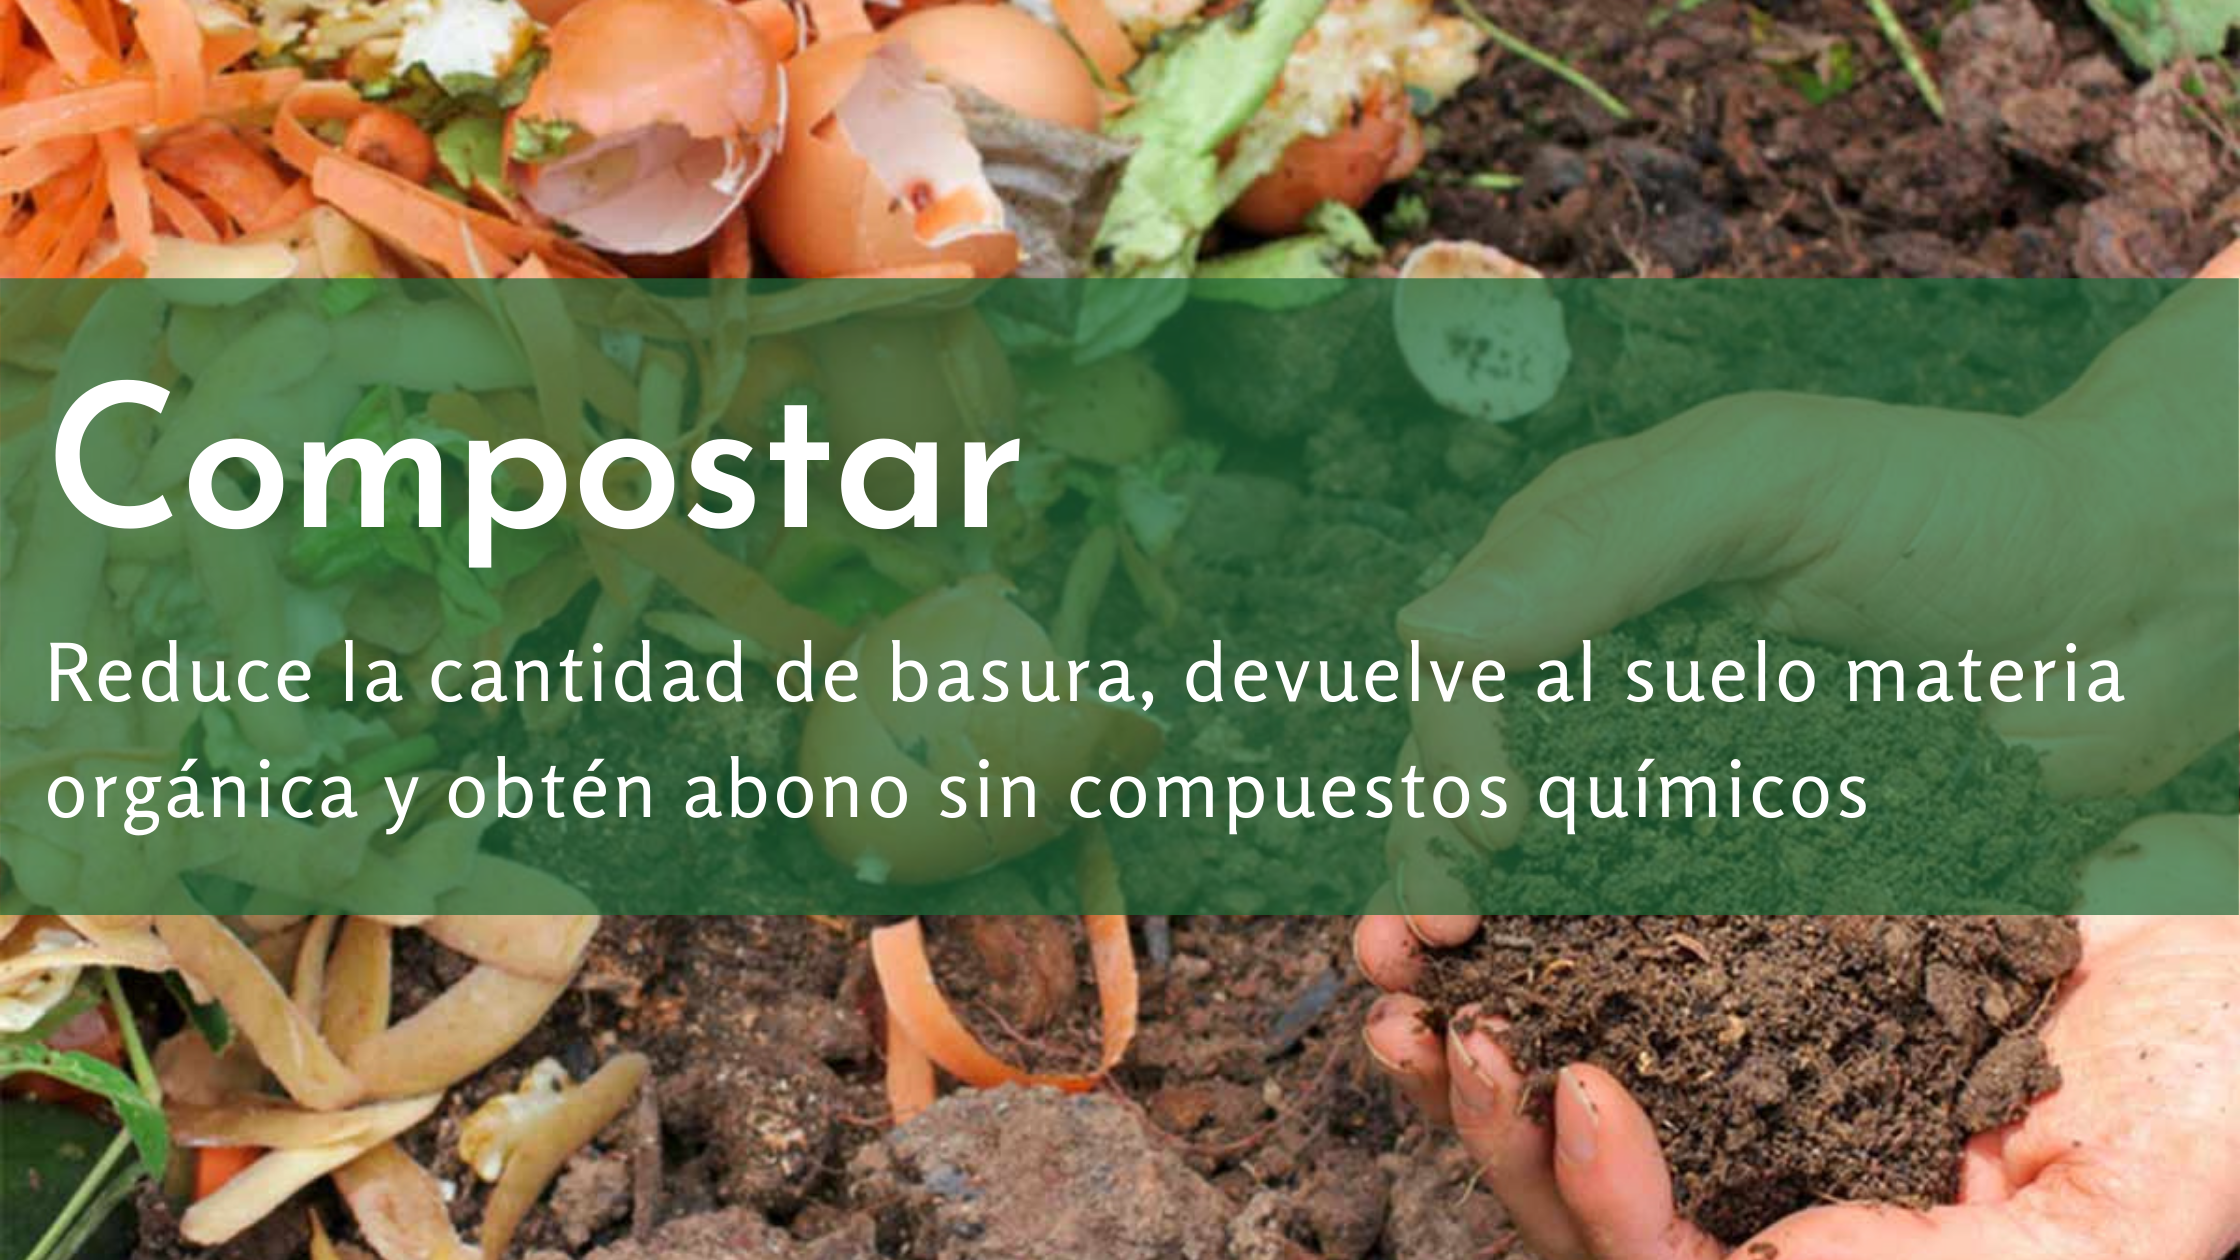
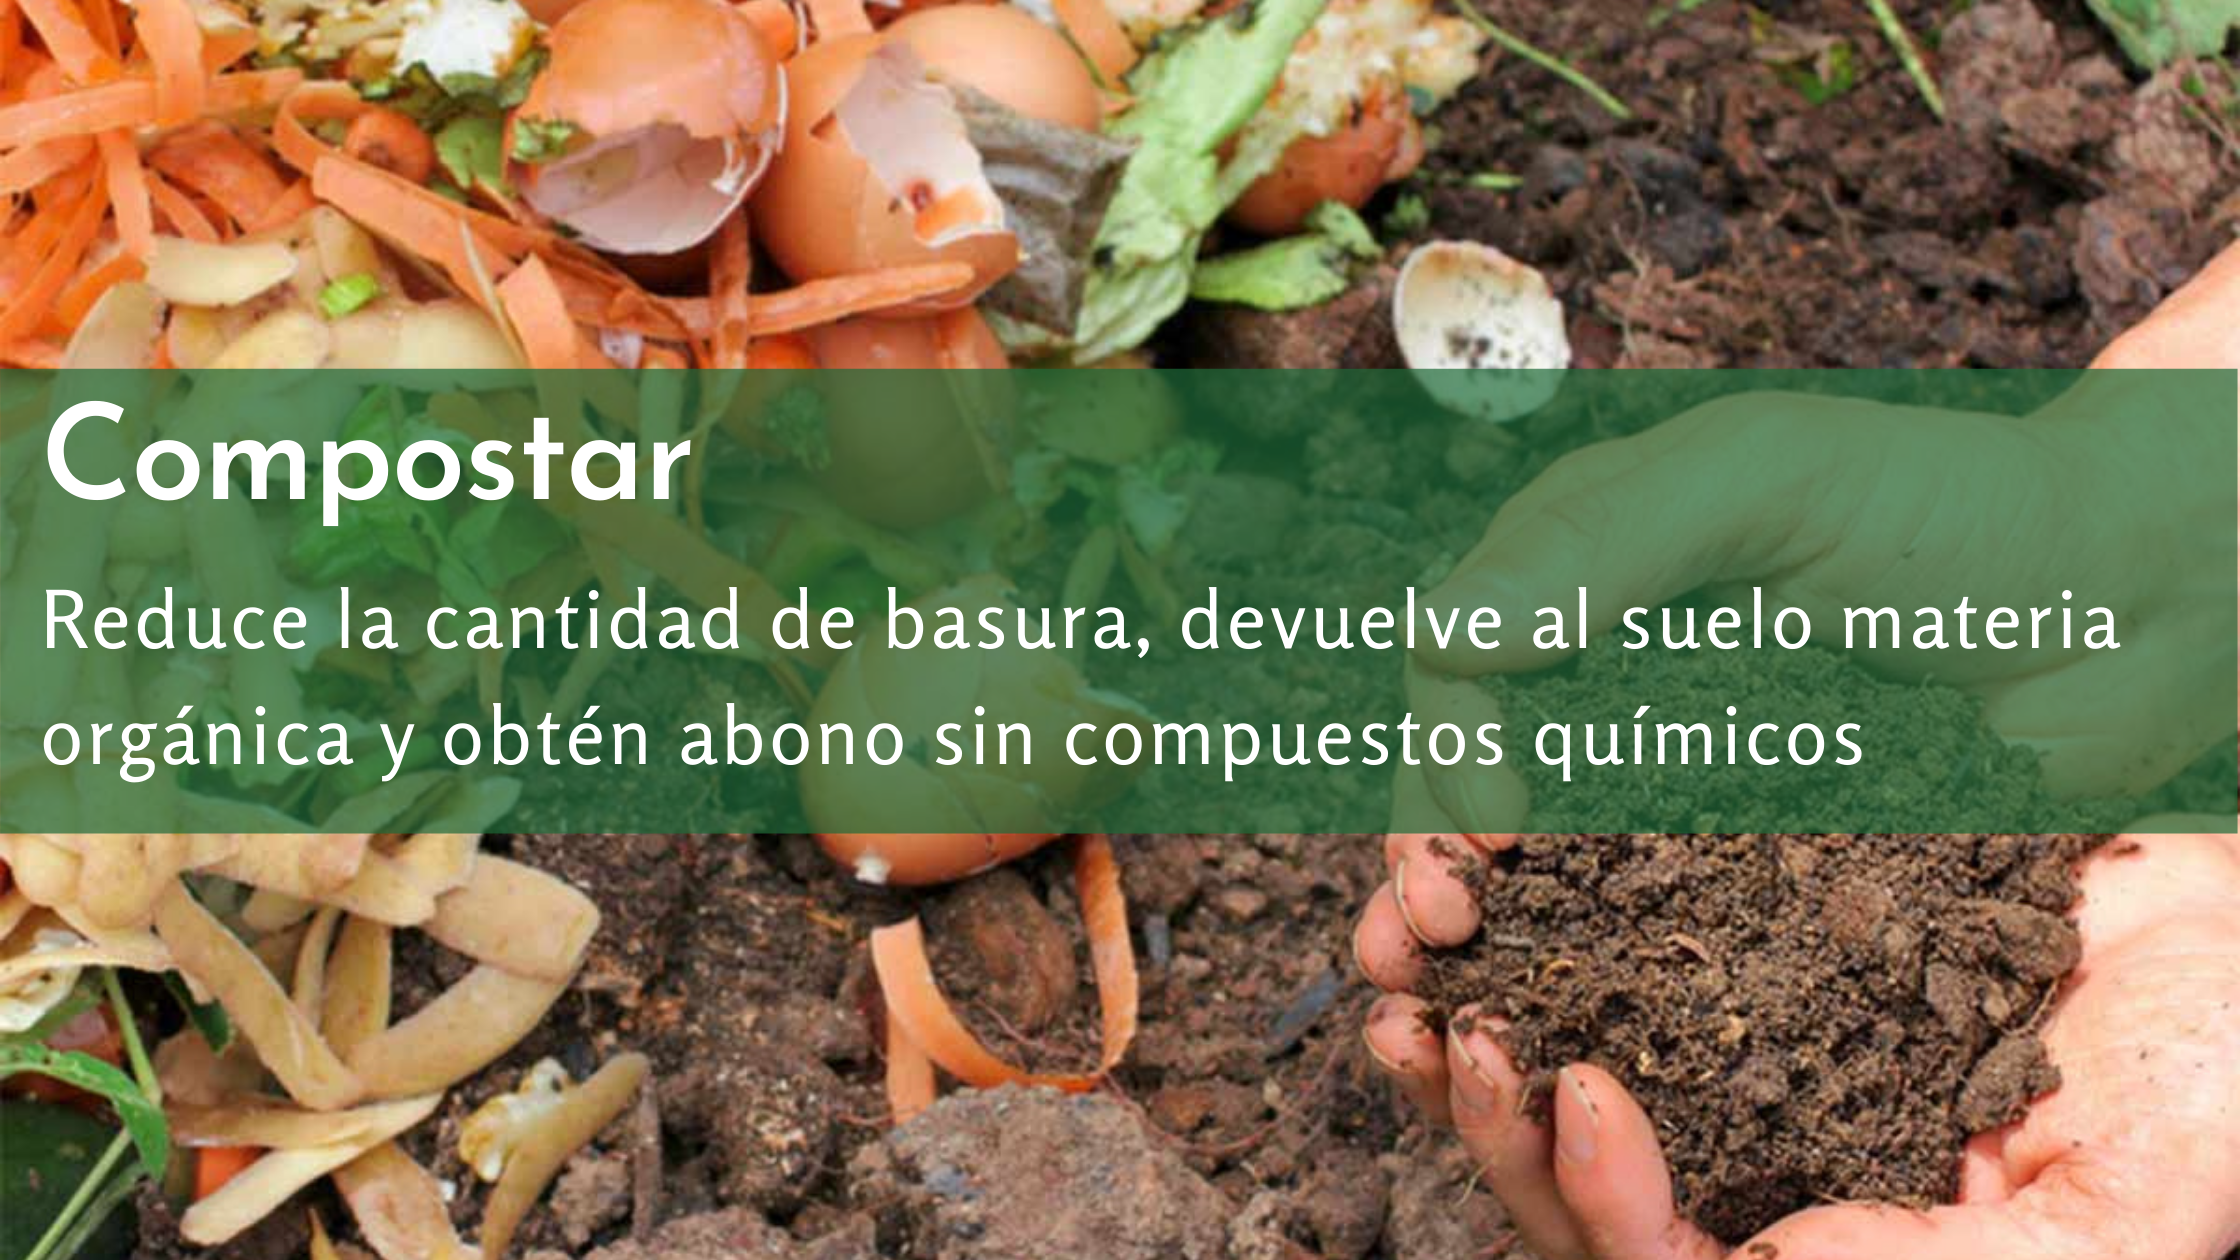
cambio de estilos y modificacion de imagenes del inicio

Changed region(s): [[0.0, 0.2167, 1.0, 0.7429]]

diff --git a/src/styles/main.js b/src/styles/main.js
@@ -11,19 +11,19 @@ export default StyleSheet.create({
   title: {
     fontSize: 20,
     fontWeight: 'bold',
-    marginTop: 30,
+    marginTop: 20,
     color: '#372A0B',
   },
   subtitle: {
     fontSize: 18,
-    marginTop: 30,
+    marginTop: 20,
     paddingBottom: 20,
     color: '#CE9F20',
   },
   button: {
     backgroundColor: '#372A0B',
     justifyContent: 'center',
-    width: 380,
+    width: width / 1.1,
     height: 60,
     borderColor: '#3E721E',
     borderRadius: 8,
@@ -53,9 +53,8 @@ export default StyleSheet.create({
     marginVertical: -28,
   },
   cardView: {
-    flex: 1,
-    width: height / 2.1,
-    height: height / 4,
+    width: width / 1.1,
+    height: height / 5.3,
     margin: 20,
     borderRadius: 8,
     elevation: 3,
@@ -63,8 +62,8 @@ export default StyleSheet.create({
     opacity: 0.9,
   },
   image: {
-    width: height / 2.1,
-    height: height / 4.7,
+    width: width / 1.1,
+    height: height / 5.3,
     borderRadius: 8,
     backgroundColor: '#1F6A39',
     opacity: 0.5,

diff --git a/src/components/CarouselMain.js b/src/components/CarouselMain.js
@@ -24,6 +24,9 @@ export default class CarouselMain extends Component {
           style={this.state.size}
           autoplay
           bullets
+          bulletsContainerStyle={{ marginVertical: -15}}     
+          bulletStyle={{ backgroundColor: '#949494', }}
+          chosenBulletStyle={{ backgroundColor: '#CE9F20',}}
           onAnimateNextPage={(p) => console.log(p)}
         >
           <View style={[this.state.size]}>
@@ -58,7 +61,8 @@ export default class CarouselMain extends Component {
 
 const styles = StyleSheet.create({
   image: {
-    width: width / 1,
-    height: height / 4.9,
+    width: width,
+    height: height / 4.3,
   },
+  
 });

diff --git a/src/styles/buttons.js b/src/styles/buttons.js
@@ -94,7 +94,7 @@ export default StyleSheet.create({
     marginTop: 75,
   },
   buttonText: {
-    color: '#fff',
+    color: '#372A0B',
     fontWeight: 'bold',
     marginHorizontal: 60,
     fontSize: 18,

diff --git a/src/screens/MapsScreen.js b/src/screens/MapsScreen.js
@@ -43,6 +43,7 @@ const DATA = [
     title: 'Contenedores',
   },
 ];
+console.log(DATA);
 
 export default function MapsScreen({ navigation }) {
   const [isConected, setIsConected] = useState();

diff --git a/src/screens/MainScreen.js b/src/screens/MainScreen.js
@@ -10,6 +10,9 @@ const Filter = [
     title: 'Tiendas',
   },
 ];
+
+console.log(Filter);
+
 export default class MainScreen extends Component {
   render() {
     return (
